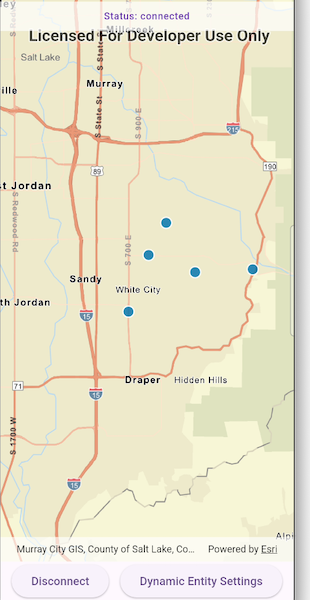
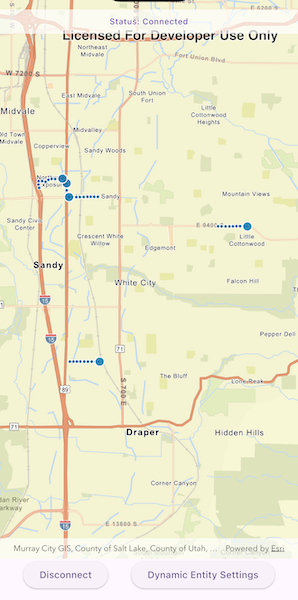
Using StreamService instead of ValueNotifier

diff --git a/lib/samples/add_dynamic_entity_layer/add_dynamic_entity_layer.dart b/lib/samples/add_dynamic_entity_layer/add_dynamic_entity_layer.dart
@@ -35,8 +35,6 @@ class _AddDynamicEntityLayerState extends State<AddDynamicEntityLayer>
   // ValueNotifier for status text.
   final _statusTextNotifier = ValueNotifier('Status: Not Connected');
 
-  // Connection Status Notifier
-
   // Dynamic entity settings state
   bool _showsTrackLine = true;
   bool _showsPreviousObservations = true;
@@ -44,19 +42,16 @@ class _AddDynamicEntityLayerState extends State<AddDynamicEntityLayer>
   // Maximum observations.
   double _maximumObservations = 5;
 
+  // Connection Status track.
+  bool _isTogglingConnection = false;
+
   // Dynamic Entity objects.
   ArcGISStreamService? _streamService;
   DynamicEntityLayer? _dynamicEntityLayer;
 
-  // Connection status (for button label and banner).
-  final _connectionStatusNotifier = ValueNotifier<ConnectionStatus>(
-    ConnectionStatus.disconnected,
-  );
-
   @override
   void dispose() {
     _statusTextNotifier.dispose();
-    _connectionStatusNotifier.dispose();
     super.dispose();
   }
 
@@ -82,23 +77,34 @@ class _AddDynamicEntityLayerState extends State<AddDynamicEntityLayer>
                 Row(
                   mainAxisAlignment: MainAxisAlignment.spaceEvenly,
                   children: [
-                    // Connect/Disconnect Elevated Button.
-                    ValueListenableBuilder<ConnectionStatus>(
-                      valueListenable: _connectionStatusNotifier,
-                      builder: (context, status, _) {
+                    // Connect/Disconnect button.
+                    StreamBuilder<ConnectionStatus>(
+                      stream: _streamService?.onConnectionStatusChanged,
+                      initialData:
+                          _streamService?.connectionStatus ??
+                          ConnectionStatus.disconnected,
+                      builder: (context, snapshot) {
+                        final status =
+                            snapshot.data ?? ConnectionStatus.disconnected;
+
                         final isConnected =
                             status == ConnectionStatus.connected;
                         final isConnecting =
                             status == ConnectionStatus.connecting;
 
                         return ElevatedButton(
-                          onPressed: (_ready && !isConnecting)
+                          // Disable while connecting or while a toggle is already in progress.
+                          onPressed:
+                              (_ready &&
+                                  !isConnecting &&
+                                  !_isTogglingConnection)
                               ? _toggleConnection
                               : null,
                           child: Text(isConnected ? 'Disconnect' : 'Connect'),
                         );
                       },
                     ),
+
                     ElevatedButton(
                       onPressed: _ready ? _showDynamicEntitySettings : null,
                       child: const Text('Dynamic Entity Settings'),
@@ -110,32 +116,37 @@ class _AddDynamicEntityLayerState extends State<AddDynamicEntityLayer>
             // Display a progress indicator and prevent interaction until state is ready.
             LoadingIndicator(visible: !_ready),
             // Display a banner with the current status at the top.
-            SafeArea(
-              child: IgnorePointer(
-                child: Container(
-                  padding: const EdgeInsets.all(10),
-                  color: Colors.white.withValues(alpha: 0.7),
-                  child: Row(
-                    mainAxisAlignment: MainAxisAlignment.center,
-                    children: [
-                      Expanded(
-                        child: ValueListenableBuilder(
-                          valueListenable: _statusTextNotifier,
-                          builder: (context, statusText, child) {
-                            return Text(
-                              statusText,
-                              softWrap: true,
-                              textAlign: TextAlign.center,
-                              style: Theme.of(context).textTheme.labelMedium,
-                            );
-                          },
+            if (_streamService != null)
+              SafeArea(
+                child: IgnorePointer(
+                  child: Container(
+                    padding: const EdgeInsets.all(10),
+                    color: Colors.white.withValues(alpha: 0.7),
+                    child: Row(
+                      mainAxisAlignment: MainAxisAlignment.center,
+                      children: [
+                        Expanded(
+                          child: StreamBuilder<ConnectionStatus>(
+                            stream: _streamService!.onConnectionStatusChanged,
+                            initialData: _streamService!.connectionStatus,
+                            builder: (context, snapshot) {
+                              final status =
+                                  snapshot.data ??
+                                  _streamService!.connectionStatus;
+                              return Text(
+                                'Status: ${status.label}',
+                                softWrap: true,
+                                textAlign: TextAlign.center,
+                                style: Theme.of(context).textTheme.labelMedium,
+                              );
+                            },
+                          ),
                         ),
-                      ),
-                    ],
+                      ],
+                    ),
                   ),
                 ),
               ),
-            ),
           ],
         ),
       ),
@@ -186,31 +197,15 @@ class _AddDynamicEntityLayerState extends State<AddDynamicEntityLayer>
     _maximumObservations = layer.trackDisplayProperties.maximumObservations
         .toDouble();
 
-    // Sync status banner + button label.
-    _syncStatusFromService();
-
     // Set the ready state variable to true to enable the sample UI.
     setState(() => _ready = true);
   }
 
   void onTap(Offset offset) {
-    //TODO(1): Add Callout Tap.
+    //TODO(4775): Add Callout Tap after implementing Callout placement for GeoElement.
     // Do something with a tap.
     // ignore: avoid_print
     print('Tapped at $offset');
-  }
-
-  void _syncStatusFromService() {
-    final service = _streamService;
-    if (service == null) {
-      _connectionStatusNotifier.value = ConnectionStatus.disconnected;
-      _statusTextNotifier.value = 'Status: Not Connected';
-      return;
-    }
-
-    final status = service.connectionStatus;
-    _connectionStatusNotifier.value = status;
-    _statusTextNotifier.value = 'Status: ${status.name}';
   }
 
   Future<void> _toggleConnection() async {
@@ -220,22 +215,29 @@ class _AddDynamicEntityLayerState extends State<AddDynamicEntityLayer>
       return;
     }
 
-    try {
-      _connectionStatusNotifier.value = ConnectionStatus.connecting;
-      _statusTextNotifier.value = 'Status: Connecting';
+    // Guard: avoid starting another toggle while one is already running.
+    if (_isTogglingConnection) return;
+    setState(() => _isTogglingConnection = true);
 
+    try {
+      // Decide action based on the current status at tap time.
       if (service.connectionStatus == ConnectionStatus.connected) {
         await service.disconnect();
       } else {
         await service.connect();
       }
     } catch (_) {
-      _connectionStatusNotifier.value = ConnectionStatus.failed;
-      _statusTextNotifier.value = 'Status: Failed';
-      return;
+      // Snackbar to display the connection status.
+      if (mounted) {
+        ScaffoldMessenger.of(context).showSnackBar(
+          const SnackBar(content: Text('Failed to change connection status.')),
+        );
+      }
+    } finally {
+      if (mounted) {
+        setState(() => _isTogglingConnection = false);
+      }
     }
-
-    _syncStatusFromService();
   }
 
   // Dynamic Entity settings modal sheet.
@@ -363,5 +365,20 @@ class _AddDynamicEntityLayerState extends State<AddDynamicEntityLayer>
         ),
       ],
     );
+  }
+}
+
+extension ConnectionStatusUi on ConnectionStatus {
+  String get label {
+    switch (this) {
+      case ConnectionStatus.connecting:
+        return 'Connecting';
+      case ConnectionStatus.connected:
+        return 'Connected';
+      case ConnectionStatus.disconnected:
+        return 'Disconnected';
+      case ConnectionStatus.failed:
+        return 'Failed';
+    }
   }
 }
